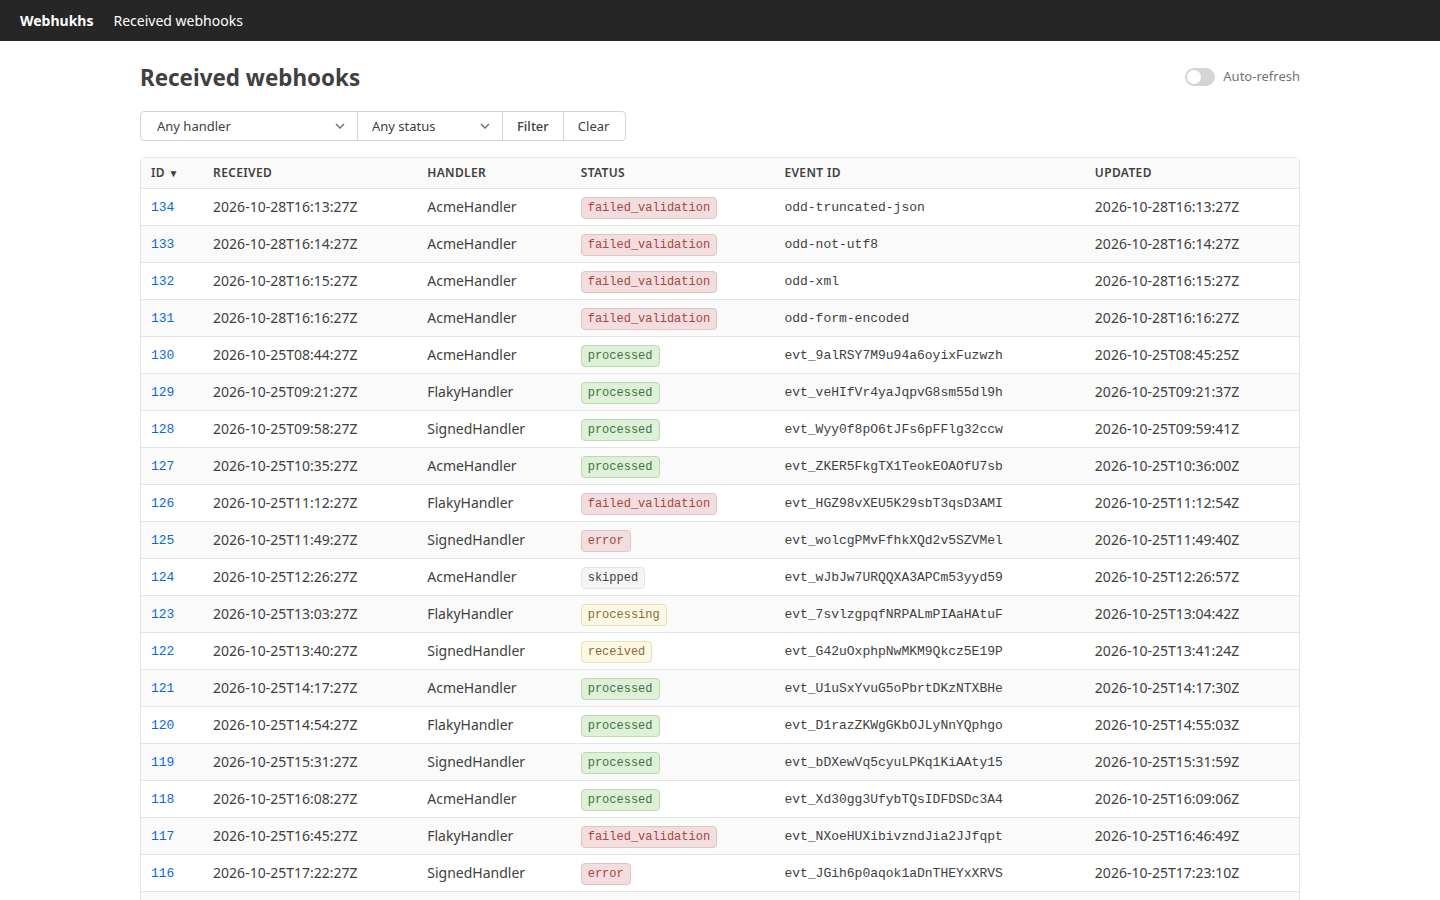
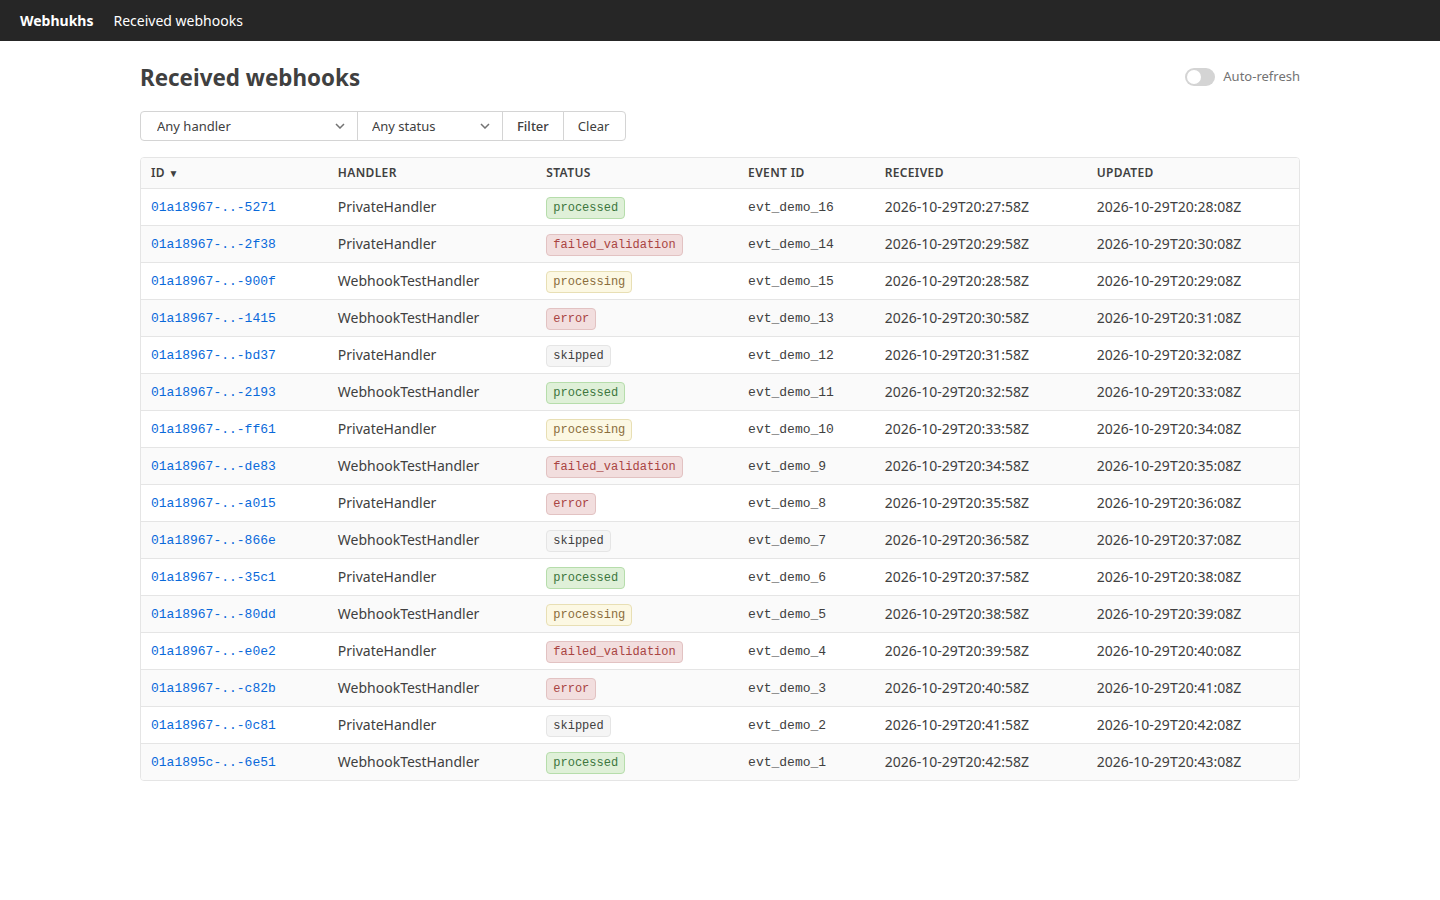
Group admin timestamps in the rightmost columns

diff --git a/test/browser/admin_click_through.rb b/test/browser/admin_click_through.rb
@@ -94,16 +94,16 @@ class AdminClickThrough < ActiveSupport::TestCase
     # The stylesheet must have made it through the CSP - unstyled, the header would not be a flexbox
     assert_equal "flex", @browser.evaluate("getComputedStyle(document.querySelector('.admin-header')).display")
     assert_equal PAGE_SIZE, @browser.css("tbody tr").length
-    assert_equal "the-failed-one", texts("tbody tr td:nth-child(5)").first
+    assert_equal "the-failed-one", texts("tbody tr td:nth-child(4)").first
 
     assert_equal 1, @browser.css("th a").length
     click_and_wait_for_page(@browser.at_xpath("//th/a[contains(., 'Id')]"))
     assert_includes @browser.current_url, "direction=asc"
-    assert_equal "evt-0", texts("tbody tr td:nth-child(5)").first
+    assert_equal "evt-0", texts("tbody tr td:nth-child(4)").first
 
     click_and_wait_for_page(@browser.at_xpath("//th/a[contains(., 'Id')]"))
     assert_includes @browser.current_url, "direction=desc"
-    assert_equal "the-failed-one", texts("tbody tr td:nth-child(5)").first
+    assert_equal "the-failed-one", texts("tbody tr td:nth-child(4)").first
 
     # Not Ferrum's Node#select: it blanks the select by assigning it `undefined` first, which
     # left it blank on the Chromium snapshot CI got
@@ -114,7 +114,7 @@ class AdminClickThrough < ActiveSupport::TestCase
     JS
     assert_equal "error", @browser.evaluate("document.querySelector('select[name=status]').value")
     click_and_wait_for_page(@browser.at_css("form.filters input[type=submit]"))
-    assert_equal ["the-failed-one"], texts("tbody tr td:nth-child(5)")
+    assert_equal ["the-failed-one"], texts("tbody tr td:nth-child(4)")
     # The sort survives filtering
     assert_includes @browser.current_url, "direction=desc"
 
@@ -132,7 +132,7 @@ class AdminClickThrough < ActiveSupport::TestCase
 
     visit ""
     # The status cell is not a link, but the row link stretched over it takes the click
-    click_and_wait_for_page(@browser.at_css("tbody tr td:nth-child(4)"))
+    click_and_wait_for_page(@browser.at_css("tbody tr td:nth-child(3)"))
 
     assert_equal "#{@base_url}/#{webhook.id}", @browser.current_url
     assert_includes @browser.at_css("h1").text, "WebhookTestHandler"
@@ -199,14 +199,14 @@ class AdminClickThrough < ActiveSupport::TestCase
 
     create_webhook(handler_event_id: "evt-arrived")
     # One poll interval, with some slack
-    wait_for("the new webhook to show up", timeout: 8) { texts("tbody tr td:nth-child(5)").include?("evt-arrived") }
-    assert_equal ["evt-arrived", "evt-before"], texts("tbody tr td:nth-child(5)")
+    wait_for("the new webhook to show up", timeout: 8) { texts("tbody tr td:nth-child(4)").include?("evt-arrived") }
+    assert_equal ["evt-arrived", "evt-before"], texts("tbody tr td:nth-child(4)")
 
     visit ""
     assert switch.call, "The switch should stay on after a reload"
     # After a page load only the timer refetches, so this one has to come in through a poll
     create_webhook(handler_event_id: "evt-polled")
-    wait_for("the polled webhook to show up", timeout: 8) { texts("tbody tr td:nth-child(5)").include?("evt-polled") }
+    wait_for("the polled webhook to show up", timeout: 8) { texts("tbody tr td:nth-child(4)").include?("evt-polled") }
     @browser.at_css("label.switch").click
     wait_for("the switch to turn off") { !switch.call }
   end

diff --git a/test/admin_test.rb b/test/admin_test.rb
@@ -20,7 +20,7 @@ class AdminTest < ActionDispatch::IntegrationTest
   end
 
   def listed_event_ids
-    css_select("table.admin-table tbody tr td:nth-child(5) code").map(&:text)
+    css_select("table.admin-table tbody tr td:nth-child(4) code").map(&:text)
   end
 
   test "lists webhooks by descending id regardless of received time by default" do
@@ -36,7 +36,16 @@ class AdminTest < ActionDispatch::IntegrationTest
     assert_select "th a.sort-link[href=?]", "/admin/?direction=asc", text: "Id ▼"
     assert_select "th a", count: 1
     assert_select "th a.sort-link span.sort-arrow", text: "▼", count: 1
-    assert_equal ["Id ▼", "Received", "Handler", "Status", "Event id", "Updated"], css_select("th").map(&:text)
+    assert_equal ["Id ▼", "Handler", "Status", "Event id", "Received", "Updated"], css_select("th").map(&:text)
+  end
+
+  test "groups receipt and update timestamps in the rightmost columns" do
+    webhook = create_webhook(created_at: 2.days.ago, updated_at: 1.day.ago)
+
+    get "/admin"
+
+    assert_select "tbody tr td:nth-child(5) time[datetime=?]", webhook.created_at.iso8601
+    assert_select "tbody tr td:nth-child(6) time[datetime=?]", webhook.updated_at.iso8601
   end
 
   test "sorts by id in ascending order when requested" do

diff --git a/CHANGELOG.md b/CHANGELOG.md
@@ -9,6 +9,7 @@ This format is based on [Keep a Changelog](https://keepachangelog.com/en/1.1.0/)
 - Admin URLs no longer include `/received`.
 - Restrict admin sorting to ID, with an ascending/descending toggle, to avoid expensive column sorts.
 - Abbreviate UUIDs in the admin listing, keeping the full ID on hover.
+- Group the admin listing's Received and Updated timestamps in the rightmost columns.
 
 ## 0.8.1
 
